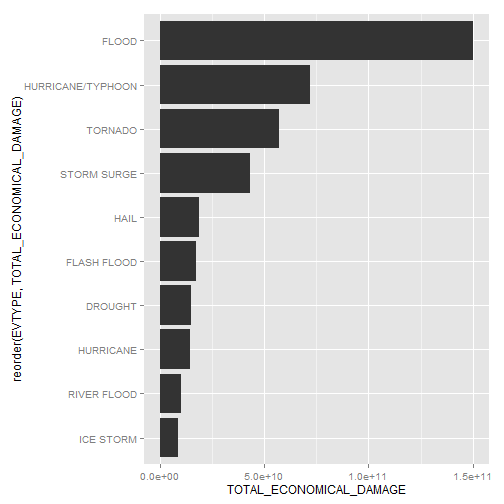
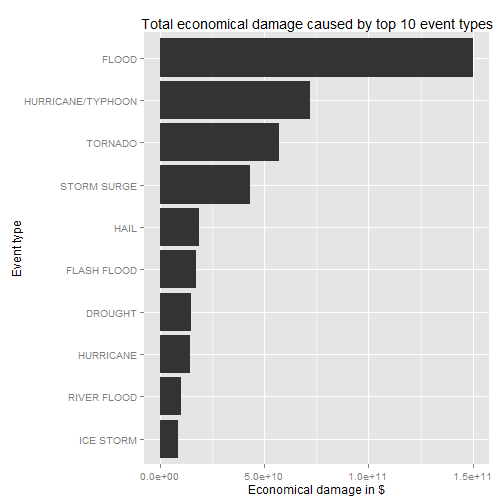
economical damage

diff --git a/report.html b/report.html
@@ -1135,15 +1135,112 @@ labs(title = &#39;Total injuries number caused by top 10 event types&#39;)
 ## 20         HEAT WAVE              172            379
 </code></pre>
 
+<h3>Economical damage</h3>
+
+<p>Let&#39;s first look at top 10 event types that causes economical damage:</p>
+
 <pre><code class="r">ggplot(
     slice(arrange(data_per_type, desc(TOTAL_ECONOMICAL_DAMAGE)), 1:10), 
     aes(x = reorder(EVTYPE, TOTAL_ECONOMICAL_DAMAGE), y = TOTAL_ECONOMICAL_DAMAGE)
 ) + 
 geom_bar(stat=&quot;identity&quot;) + 
-coord_flip()
+coord_flip() + 
+labs(x = &#39;Event type&#39;) +
+labs(y = &#39;Economical damage in $&#39;) +
+labs(title = &#39;Total economical damage caused by top 10 event types&#39;)
 </code></pre>
 
[2 lines of base64/hex data omitted]
+
+<p>Or, more detailed, table with top 20 event types:</p>
+
+<pre><code class="r">select(slice(arrange(data_per_type, desc(TOTAL_ECONOMICAL_DAMAGE)), 1:20), EVTYPE, TOTAL_PROPERTY_DAMAGE, TOTAL_CROP_DAMAGE)
+</code></pre>
+
+<pre><code>## Source: local data frame [20 x 3]
+## 
+##                       EVTYPE TOTAL_PROPERTY_DAMAGE TOTAL_CROP_DAMAGE
+## 1                      FLOOD          144657709807        5661968450
+## 2          HURRICANE/TYPHOON           69305840000        2607872800
+## 3                    TORNADO           56925660790         414953270
+## 4                STORM SURGE           43323536000              5000
+## 5                       HAIL           15727367053        3025537890
+## 6                FLASH FLOOD           16140812067        1421317100
+## 7                    DROUGHT            1046106000       13972566000
+## 8                  HURRICANE           11868319010        2741910000
+## 9                RIVER FLOOD            5118945500        5029459000
+## 10                 ICE STORM            3944927860        5022113500
+## 11            TROPICAL STORM            7703890550         678346000
+## 12              WINTER STORM            6688497251          26944000
+## 13                 HIGH WIND            5270046295         638571300
+## 14                  WILDFIRE            4765114000         295472800
+## 15                 TSTM WIND            4484958495         554007350
+## 16          STORM SURGE/TIDE            4641188000            850000
+## 17         THUNDERSTORM WIND            3483121284         414843050
+## 18            HURRICANE OPAL            3152846020           9000010
+## 19          WILD/FOREST FIRE            3001829500         106796830
+## 20 HEAVY RAIN/SEVERE WEATHER            2500000000                 0
+</code></pre>
+
+<p>Let&#39;s additionally examine top 20 property damage causes:</p>
+
+<pre><code class="r">select(slice(arrange(data_per_type, desc(TOTAL_PROPERTY_DAMAGE)), 1:20), EVTYPE, TOTAL_PROPERTY_DAMAGE)
+</code></pre>
+
+<pre><code>## Source: local data frame [20 x 2]
+## 
+##                       EVTYPE TOTAL_PROPERTY_DAMAGE
+## 1                      FLOOD          144657709807
+## 2          HURRICANE/TYPHOON           69305840000
+## 3                    TORNADO           56925660790
+## 4                STORM SURGE           43323536000
+## 5                FLASH FLOOD           16140812067
+## 6                       HAIL           15727367053
+## 7                  HURRICANE           11868319010
+## 8             TROPICAL STORM            7703890550
+## 9               WINTER STORM            6688497251
+## 10                 HIGH WIND            5270046295
+## 11               RIVER FLOOD            5118945500
+## 12                  WILDFIRE            4765114000
+## 13          STORM SURGE/TIDE            4641188000
+## 14                 TSTM WIND            4484958495
+## 15                 ICE STORM            3944927860
+## 16         THUNDERSTORM WIND            3483121284
+## 17            HURRICANE OPAL            3152846020
+## 18          WILD/FOREST FIRE            3001829500
+## 19 HEAVY RAIN/SEVERE WEATHER            2500000000
+## 20        THUNDERSTORM WINDS            1733459026
+</code></pre>
+
+<p>And top 20 crop damage causes:</p>
+
+<pre><code class="r">select(slice(arrange(data_per_type, desc(TOTAL_CROP_DAMAGE)), 1:20), EVTYPE, TOTAL_CROP_DAMAGE)
+</code></pre>
+
+<pre><code>## Source: local data frame [20 x 2]
+## 
+##               EVTYPE TOTAL_CROP_DAMAGE
+## 1            DROUGHT       13972566000
+## 2              FLOOD        5661968450
+## 3        RIVER FLOOD        5029459000
+## 4          ICE STORM        5022113500
+## 5               HAIL        3025537890
+## 6          HURRICANE        2741910000
+## 7  HURRICANE/TYPHOON        2607872800
+## 8        FLASH FLOOD        1421317100
+## 9       EXTREME COLD        1312973000
+## 10      FROST/FREEZE        1094186000
+## 11        HEAVY RAIN         733399800
+## 12    TROPICAL STORM         678346000
+## 13         HIGH WIND         638571300
+## 14         TSTM WIND         554007350
+## 15    EXCESSIVE HEAT         492402000
+## 16            FREEZE         456725000
+## 17           TORNADO         414953270
+## 18 THUNDERSTORM WIND         414843050
+## 19              HEAT         401461500
+## 20   DAMAGING FREEZE         296230000
+</code></pre>
 
 </body>
 

diff --git a/report.md b/report.md
@@ -966,6 +966,10 @@ select(slice(arrange(data_per_type, desc(TOTAL_POPULATION_DAMAGE)), 1:20), EVTYP
 ## 20         HEAT WAVE              172            379
 ```
 
+### Economical damage
+
+Let's first look at top 10 event types that causes economical damage:
+
 
 ```r
 ggplot(
@@ -973,7 +977,109 @@ ggplot(
 	aes(x = reorder(EVTYPE, TOTAL_ECONOMICAL_DAMAGE), y = TOTAL_ECONOMICAL_DAMAGE)
 ) + 
 geom_bar(stat="identity") + 
-coord_flip()
+coord_flip() + 
+labs(x = 'Event type') +
+labs(y = 'Economical damage in $') +
+labs(title = 'Total economical damage caused by top 10 event types')
 ```
 
 ![plot of chunk unnamed-chunk-16](figure/unnamed-chunk-16-1.png) 
+
+Or, more detailed, table with top 20 event types:
+
+
+```r
+select(slice(arrange(data_per_type, desc(TOTAL_ECONOMICAL_DAMAGE)), 1:20), EVTYPE, TOTAL_PROPERTY_DAMAGE, TOTAL_CROP_DAMAGE)
+```
+
+```
+## Source: local data frame [20 x 3]
+## 
+##                       EVTYPE TOTAL_PROPERTY_DAMAGE TOTAL_CROP_DAMAGE
+## 1                      FLOOD          144657709807        5661968450
+## 2          HURRICANE/TYPHOON           69305840000        2607872800
+## 3                    TORNADO           56925660790         414953270
+## 4                STORM SURGE           43323536000              5000
+## 5                       HAIL           15727367053        3025537890
+## 6                FLASH FLOOD           16140812067        1421317100
+## 7                    DROUGHT            1046106000       13972566000
+## 8                  HURRICANE           11868319010        2741910000
+## 9                RIVER FLOOD            5118945500        5029459000
+## 10                 ICE STORM            3944927860        5022113500
+## 11            TROPICAL STORM            7703890550         678346000
+## 12              WINTER STORM            6688497251          26944000
+## 13                 HIGH WIND            5270046295         638571300
+## 14                  WILDFIRE            4765114000         295472800
+## 15                 TSTM WIND            4484958495         554007350
+## 16          STORM SURGE/TIDE            4641188000            850000
+## 17         THUNDERSTORM WIND            3483121284         414843050
+## 18            HURRICANE OPAL            3152846020           9000010
+## 19          WILD/FOREST FIRE            3001829500         106796830
+## 20 HEAVY RAIN/SEVERE WEATHER            2500000000                 0
+```
+
+Let's additionally examine top 20 property damage causes:
+
+
+```r
+select(slice(arrange(data_per_type, desc(TOTAL_PROPERTY_DAMAGE)), 1:20), EVTYPE, TOTAL_PROPERTY_DAMAGE)
+```
+
+```
+## Source: local data frame [20 x 2]
+## 
+##                       EVTYPE TOTAL_PROPERTY_DAMAGE
+## 1                      FLOOD          144657709807
+## 2          HURRICANE/TYPHOON           69305840000
+## 3                    TORNADO           56925660790
+## 4                STORM SURGE           43323536000
+## 5                FLASH FLOOD           16140812067
+## 6                       HAIL           15727367053
+## 7                  HURRICANE           11868319010
+## 8             TROPICAL STORM            7703890550
+## 9               WINTER STORM            6688497251
+## 10                 HIGH WIND            5270046295
+## 11               RIVER FLOOD            5118945500
+## 12                  WILDFIRE            4765114000
+## 13          STORM SURGE/TIDE            4641188000
+## 14                 TSTM WIND            4484958495
+## 15                 ICE STORM            3944927860
+## 16         THUNDERSTORM WIND            3483121284
+## 17            HURRICANE OPAL            3152846020
+## 18          WILD/FOREST FIRE            3001829500
+## 19 HEAVY RAIN/SEVERE WEATHER            2500000000
+## 20        THUNDERSTORM WINDS            1733459026
+```
+
+And top 20 crop damage causes:
+
+
+```r
+select(slice(arrange(data_per_type, desc(TOTAL_CROP_DAMAGE)), 1:20), EVTYPE, TOTAL_CROP_DAMAGE)
+```
+
+```
+## Source: local data frame [20 x 2]
+## 
+##               EVTYPE TOTAL_CROP_DAMAGE
+## 1            DROUGHT       13972566000
+## 2              FLOOD        5661968450
+## 3        RIVER FLOOD        5029459000
+## 4          ICE STORM        5022113500
+## 5               HAIL        3025537890
+## 6          HURRICANE        2741910000
+## 7  HURRICANE/TYPHOON        2607872800
+## 8        FLASH FLOOD        1421317100
+## 9       EXTREME COLD        1312973000
+## 10      FROST/FREEZE        1094186000
+## 11        HEAVY RAIN         733399800
+## 12    TROPICAL STORM         678346000
+## 13         HIGH WIND         638571300
+## 14         TSTM WIND         554007350
+## 15    EXCESSIVE HEAT         492402000
+## 16            FREEZE         456725000
+## 17           TORNADO         414953270
+## 18 THUNDERSTORM WIND         414843050
+## 19              HEAT         401461500
+## 20   DAMAGING FREEZE         296230000
+```
